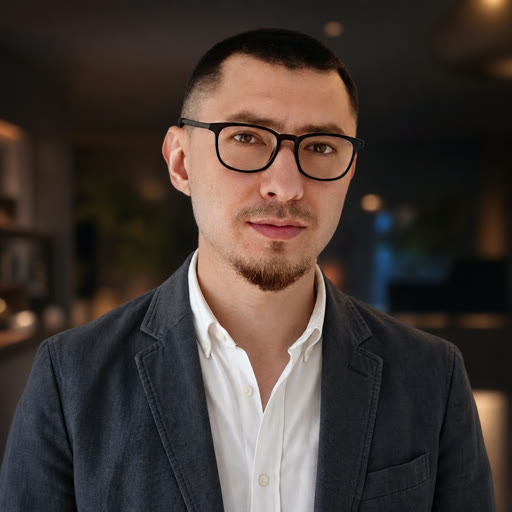
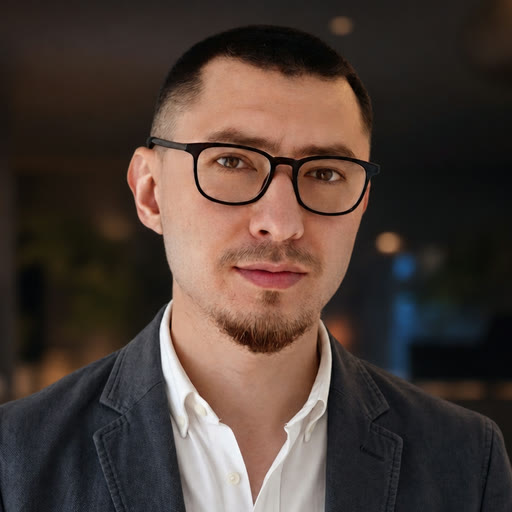
Rework the About cards; tighten the portrait
The CS/FF/MB/TM badges were letter-pairs standing in for icons — they
carried no meaning and cost 50px a card. Gone on both breakpoints, and
the card titles take over as the anchor: 15px gold instead of 12px
white, with a short teal rule beneath. That rule also brings back the
second accent the section lost with the badges, so the column is no
longer one flat wash of gold.

Cards sat at #141417 on a #070708 page, a difference the eye barely
registers. They now carry a slight gradient and a stronger border, so
they read as panels rather than another shade of black.

Tags were gold on gold-tint, competing with the card titles. Muted to
grey on transparent, gold on hover: cards are the content, tags are the
footnote. Reordered so the discipline and the verticals lead and the
platforms — the commodity part — trail.

The profile strip moved out of the left column into the section header.
Combined with the badge removal this balances the columns: 542 against
521, where the gap was 114.

"Media Buying Background" wrapped to two lines and broke the row;
"Media Buying" fits, and the left column already explains the shift to
creative strategy.

Portrait recropped ~25% tighter — the head took a third of the frame
and the rest was jacket, which reads badly at 104px and worse in the
76px circle above the final CTA.

diff --git a/index.html b/index.html
@@ -90,17 +90,17 @@
     <div class="about-header r">
       <div class="stag">About Me</div>
       <h2 class="st">Creative strategy,<br><span class="t">written by a media buyer.</span></h2>
+            <div class="about-me">
+        <img class="about-photo" src="images/aleksandr.jpg" alt="Aleksandr Li" width="104" height="104" loading="lazy">
+        <div>
+          <div class="about-id-name">Aleksandr Li</div>
+          <div class="about-id-role">Creative Strategist · Paid Social</div>
+          <div class="about-id-loc">Europe · GMT+2 · Working with USA, EU &amp; CIS</div>
+        </div>
+      </div>
     </div>
     <div class="about-grid">
       <div class="about-text-block r">
-        <div class="about-me">
-          <img class="about-photo" src="images/aleksandr.jpg" alt="Aleksandr Li" width="104" height="104" loading="lazy">
-          <div>
-            <div class="about-id-name">Aleksandr Li</div>
-            <div class="about-id-role">Creative Strategist · Paid Social</div>
-            <div class="about-id-loc">Europe · GMT+2 · Working with USA, EU &amp; CIS</div>
-          </div>
-        </div>
         <p>I build creative the same way performance teams build product — <span class="key">data-first, evidence-based, every decision testable.</span> No "creative intuition," no "trust me, this'll work." Audience research, structured testing, every concept judged against your real KPIs.</p>
         <p>I started in 2017, built my own social presence, published case studies, and took on first clients through word of mouth. Over 8 years the work scaled: from local businesses in Eastern Europe to brands launched from zero and six- and seven-figure DTC brands. <strong>Working inside agencies, I&#39;ve run creative on brand accounts spending $1M+/month.</strong> One of them grew from ~$150K/month to <strong>$3M/month across 7 platforms in the USA</strong>.</p>
         <p>The last 4–5 years I've focused heavily on creative strategy — because that's where the real leverage shifted. As Meta, TikTok, and Google moved targeting control to their algorithms, <strong>the creative became the targeting</strong>. The hook, the message, the format now determine who sees your ad. Most media buyers haven't caught up to this yet.</p>
@@ -109,35 +109,31 @@
       <div class="about-right r d1">
         <div class="about-cards">
         <div class="acard">
-          <div class="acard-icon">CS</div>
           <h4>Creative Strategy</h4>
           <p>Audience research, offer psychology, brief writing, creative frameworks, competitive analysis, performance analytics.</p>
         </div>
         <div class="acard">
-          <div class="acard-icon">FF</div>
           <h4>Full-Funnel Creative</h4>
           <p>Creative mapped across TOF/MOF/BOF and awareness levels, so every asset speaks to where the buyer actually is.</p>
         </div>
         <div class="acard">
-          <div class="acard-icon">MB</div>
-          <h4>Media Buying Background</h4>
+          <h4>Media Buying</h4>
           <p>Eight years buying on Meta, TikTok, Google, Snapchat and YouTube. I know how creative behaves in a live auction.</p>
         </div>
         <div class="acard">
-          <div class="acard-icon">TM</div>
           <h4>Production &amp; Team</h4>
           <p>From brief to finished asset: writing concepts, directing designers, editors and UGC creators, holding the quality bar.</p>
         </div>
         </div>
         <div class="about-tags">
-          <span class="atag">Meta Ads</span>
-          <span class="atag">TikTok Ads</span>
-          <span class="atag">Google Ads</span>
           <span class="atag">Creative Strategy</span>
           <span class="atag">Lead Gen</span>
           <span class="atag">DTC E-commerce</span>
           <span class="atag">Online Education</span>
           <span class="atag">B2B Brands</span>
+          <span class="atag">Meta Ads</span>
+          <span class="atag">TikTok Ads</span>
+          <span class="atag">Google Ads</span>
         </div>
       </div>
     </div>

diff --git a/style.css b/style.css
@@ -164,7 +164,7 @@ h2.st .t{color:var(--t2)}
 .about-header .stag{margin-left:auto;margin-right:auto;margin-bottom:18px}
 .about-header h2{margin-bottom:0;max-width:880px;margin-left:auto;margin-right:auto}
 .about-grid{display:grid;grid-template-columns:1fr 1fr;gap:56px;align-items:start;position:relative;z-index:1;margin-bottom:48px}
-.about-me{display:flex;align-items:center;gap:18px;margin-bottom:28px;padding-bottom:26px;border-bottom:1px solid var(--br2)}
+.about-me{display:flex;align-items:center;justify-content:center;gap:18px;margin-top:30px;text-align:left}
 .about-photo{width:104px;height:104px;border-radius:10px;object-fit:cover;border:1px solid var(--br);flex-shrink:0;display:block}
 .about-id-name{font-family:'Bebas Neue',Impact,sans-serif;font-size:1.6rem;letter-spacing:.04em;line-height:1;color:var(--tx);margin-bottom:7px}
 .about-id-role{font-size:.8rem;font-weight:600;letter-spacing:.04em;color:var(--g);margin-bottom:5px}
@@ -175,13 +175,16 @@ h2.st .t{color:var(--t2)}
 .about-text-block p .key{color:var(--g);font-weight:600}
 .about-right{display:flex;flex-direction:column}
 .about-cards{display:grid;grid-template-columns:1fr 1fr;gap:14px}
-.acard{background:var(--b3);border:1px solid var(--br2);border-radius:6px;padding:24px;transition:border-color .3s,transform .2s}
-.acard:hover{border-color:var(--brt);transform:translateY(-2px)}
+.acard{background:linear-gradient(160deg,#17171C 0%,#101013 100%);border:1px solid rgba(255,255,255,.09);border-radius:8px;padding:24px;position:relative;transition:border-color .3s ease,box-shadow .3s ease,background .3s ease}
+.acard:hover{border-color:var(--br);background:linear-gradient(160deg,#1C1C22 0%,#121215 100%);box-shadow:0 8px 26px rgba(0,0,0,.45)}
+.acard:hover h4::after{width:44px}
 .acard-icon{width:36px;height:36px;border-radius:8px;background:var(--td);border:1px solid var(--brt);display:flex;align-items:center;justify-content:center;color:var(--t2);font-family:'Bebas Neue',Impact,sans-serif;font-size:1.1rem;margin-bottom:14px}
-.acard h4{font-size:.78rem;font-weight:700;letter-spacing:.1em;text-transform:uppercase;color:var(--tx);margin-bottom:8px}
+.acard h4{font-size:.95rem;font-weight:700;letter-spacing:.05em;text-transform:uppercase;color:var(--g);margin-bottom:14px;line-height:1.25;padding-bottom:12px;position:relative}
+.acard h4::after{content:'';position:absolute;left:0;bottom:0;width:26px;height:2px;border-radius:1px;background:var(--t2);transition:width .3s ease}
 .acard p{font-size:.94rem;color:var(--m2);line-height:1.6}
 .about-tags{display:flex;flex-wrap:wrap;gap:8px;justify-content:flex-start;margin-top:26px;padding-top:26px;border-top:1px solid var(--br2);position:relative;z-index:1}
-.atag{font-size:.7rem;font-weight:600;letter-spacing:.05em;color:var(--g);background:var(--gd);border:1px solid var(--br);padding:6px 14px;border-radius:100px}
+.atag{font-size:.7rem;font-weight:600;letter-spacing:.05em;color:var(--m2);background:transparent;border:1px solid var(--br2);padding:6px 14px;border-radius:100px;transition:color .25s ease,border-color .25s ease}
+.atag:hover{color:var(--g);border-color:var(--br)}
 
 /* PROCESS */
 #process{background:var(--b)}
@@ -476,7 +479,7 @@ footer{padding:26px 48px;border-top:1px solid var(--br2);display:flex;align-item
   .about-grid{grid-template-columns:1fr;gap:36px;margin-bottom:32px}
   .about-tags{justify-content:center}
   .about-text-block{text-align:left}
-  .about-me{gap:14px}
+  .about-me{gap:14px;margin-top:22px}
   .about-photo{width:84px;height:84px}
   .about-id-name{font-size:1.35rem}
   .about-cards{grid-template-columns:1fr 1fr}
